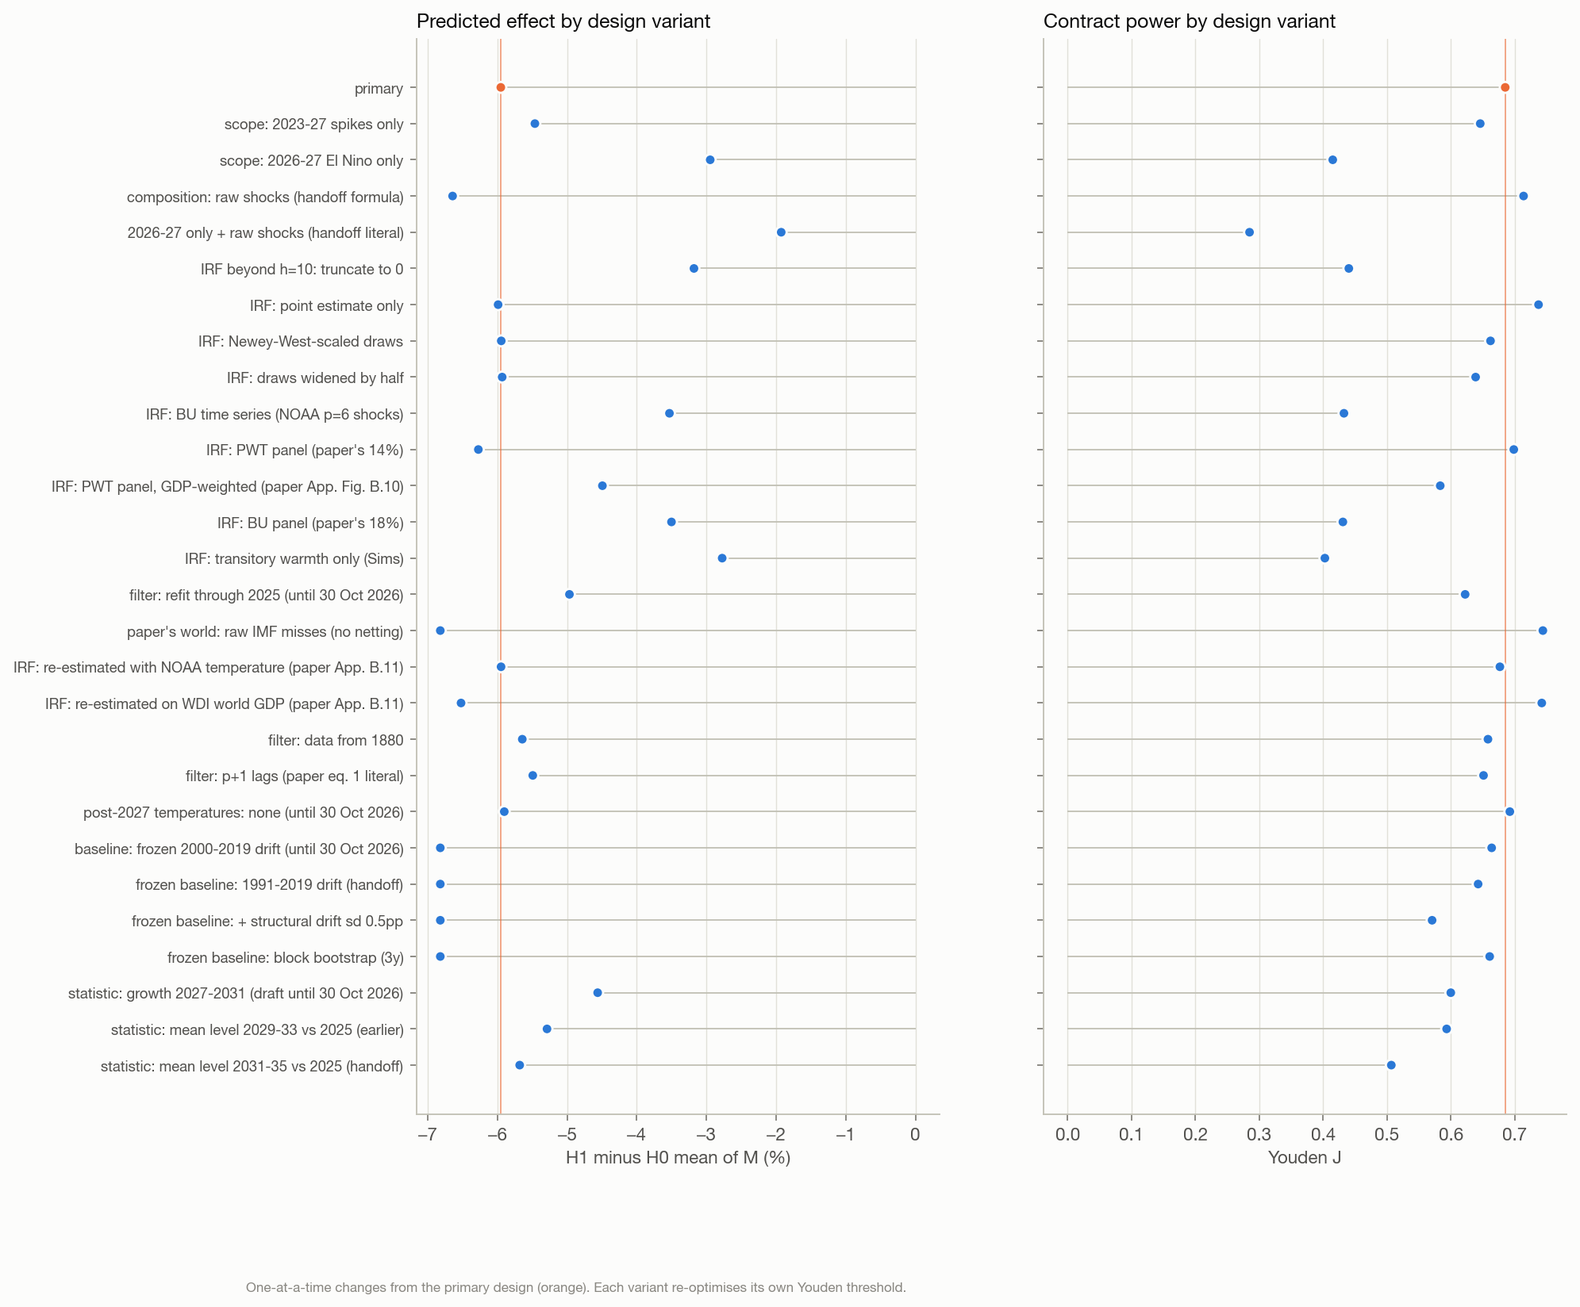
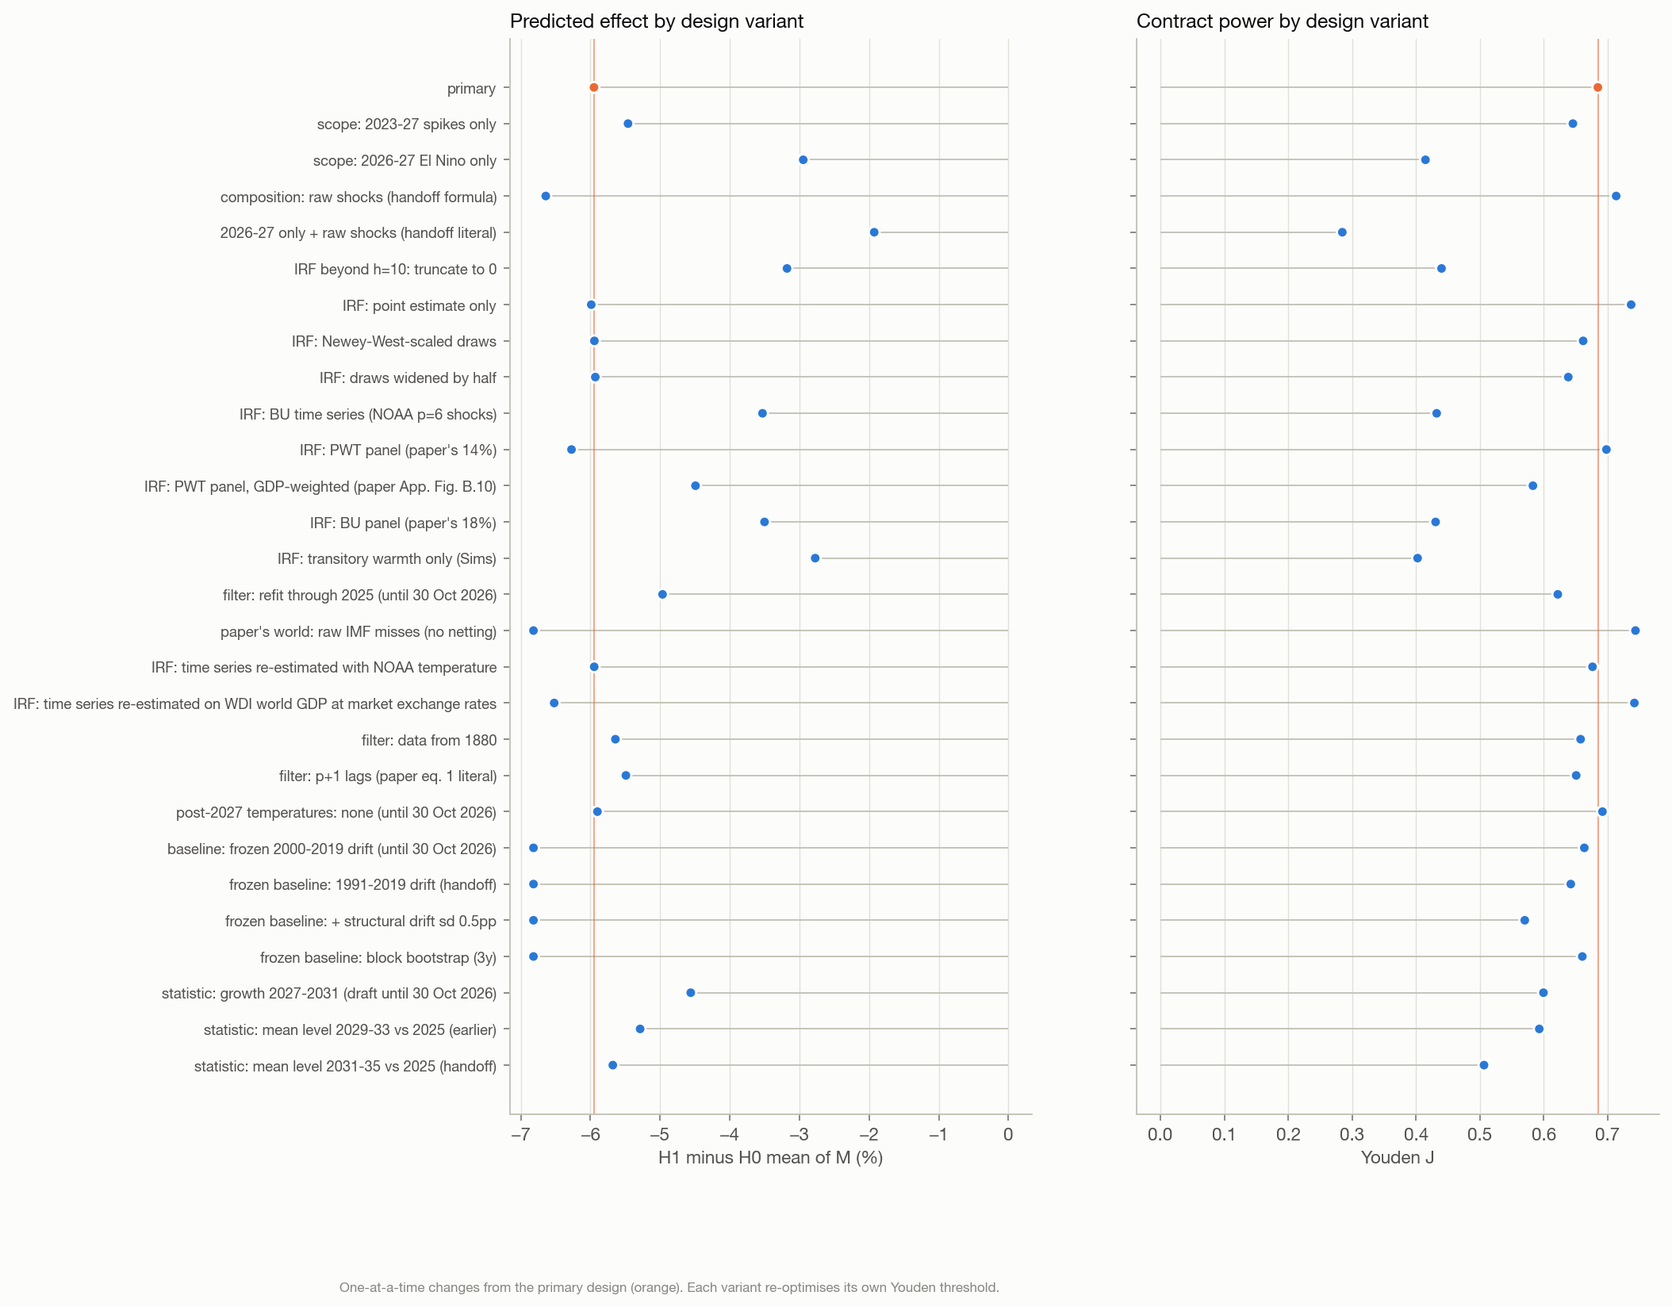
Place the paper's NOAA and World Bank checks in its country panel
App. Fig. B.11 reports the paper's NOAA, NASA and World Bank checks for its
country panel only. The world time-series re-estimates with NOAA and World
Bank data are this project's own, so the variant labels, the objection's
answer and the settlement-series reason no longer cite B.11 for them. The
re-run's numbers are unchanged.

diff --git a/bk_elnino/objections.py b/bk_elnino/objections.py
@@ -47,8 +47,8 @@ def build(r: dict) -> list[dict]:
     sens, sens_w = var["primary"]["sensitivity"], var["IRF: draws widened by half"]["sensitivity"]
     refit = v("filter: refit through 2025 (until 30 Oct 2026)")
     raw_bg = v("paper's world: raw IMF misses (no netting)")
-    noaa = v("IRF: re-estimated with NOAA temperature (paper App. B.11)")
-    wdi = v("IRF: re-estimated on WDI world GDP (paper App. B.11)")
+    noaa = v("IRF: time series re-estimated with NOAA temperature")
+    wdi = v("IRF: time series re-estimated on WDI world GDP at market exchange rates")
     frozen = v("baseline: frozen 2000-2019 drift (until 30 Oct 2026)")
     rawsh = v("composition: raw shocks (handoff formula)")
     trans = v("IRF: transitory warmth only (Sims)")
@@ -81,14 +81,16 @@ def build(r: dict) -> list[dict]:
                    f"the gap would be {_m(abs(raw_bg[0]))} points and the contract would overstate its chance of resolving "
                    f"the paper's way."},
         {"side": PAPER, "status": ADDRESSED,
-         "objection": "The contract uses NOAA temperatures and World Bank GDP where the paper uses Berkeley Earth and "
-                      "the Penn World Table.",
-         "answer": f"The paper reports similar results with NOAA, NASA and World Bank data (App. Fig. B.11), and says its "
-                   f"Berkeley Earth measure tracks NOAA almost perfectly. Re-estimating the paper's world-GDP response "
-                   f"with NOAA temperature gives {_m(th['PWT_ts_noaa'])}% at year 6 (the paper's is {_m(th['PWT_ts'])}%), "
-                   f"and with World Bank GDP {_m(th['PWT_ts_wdi'])}%. The cutoffs become {noaa[1]:.2f}% and "
-                   f"{wdi[1]:.2f}%, against {cut:.2f}%. The Penn World Table cannot settle the contract, because its "
-                   "releases lag several years."},
+         "objection": "The contract uses NOAA temperatures and World Bank GDP where the estimate it tests uses Berkeley "
+                      "Earth and the Penn World Table.",
+         "answer": f"The paper reports similar results with NOAA, NASA and World Bank data in its country panel (App. "
+                   f"Fig. B.11), and says its Berkeley Earth measure tracks NOAA almost perfectly. It does not report "
+                   f"its world time series with these data. Re-estimating that series with the authors' NOAA data "
+                   f"gives {_m(th['PWT_ts_noaa'])}% at year 6 (the paper's is {_m(th['PWT_ts'])}%), and with their "
+                   f"World Bank data, at market exchange rates, {_m(th['PWT_ts_wdi'])}%. The cutoffs become "
+                   f"{noaa[1]:.2f}% and {wdi[1]:.2f}%, against {cut:.2f}%. ForecastEx's GT contracts resolve on NOAA. "
+                   "The Penn World Table cannot settle the contract, because its releases lag several years. Its "
+                   "version 11.0, of October 2025, ends in 2023."},
         {"side": PAPER, "status": CAVEAT,
          "objection": "The growth period ends before the El Niño's full effect.",
          "answer": f"The paper's response peaks six years after a shock, after {end} for the 2027 shock. The end year is "

diff --git a/build_site_data.py b/build_site_data.py
@@ -54,8 +54,8 @@ PAGE_VARIANTS = [
     ("IRF: draws widened by half", "The paper’s uncertainty widened by half"),
     ("IRF: PWT panel (paper's 14%)", "Country panel, every country weighted equally (the paper’s 14%)"),
     ("IRF: PWT panel, GDP-weighted (paper App. Fig. B.10)", "Country panel, countries weighted by GDP (App. Fig. B.10)"),
-    ("IRF: re-estimated with NOAA temperature (paper App. B.11)", "Time series with NOAA temperature (App. Fig. B.11)"),
-    ("IRF: re-estimated on WDI world GDP (paper App. B.11)", "Time series on World Bank GDP (App. Fig. B.11)"),
+    ("IRF: time series re-estimated with NOAA temperature", "Time series with NOAA temperature"),
+    ("IRF: time series re-estimated on WDI world GDP at market exchange rates", "Time series on World Bank GDP at market exchange rates"),
     ("IRF: BU time series (NOAA p=6 shocks)", "Barro–Ursúa data from 1860, time series"),
     ("IRF: BU panel (paper's 18%)", "Barro–Ursúa country panel (the paper’s 18%)"),
     ("IRF: transitory warmth only (Sims)", "Only the transitory part of each shock (App. B.4)"),
@@ -88,10 +88,10 @@ IRF_MENU = [
     ("PWT_panel", "Country panel, every country weighted equally (Fig. IV)", "IRF: PWT panel (paper's 14%)"),
     ("PWT_panel_gdpw", "Country panel, countries weighted by GDP (App. Fig. B.10)",
      "IRF: PWT panel, GDP-weighted (paper App. Fig. B.10)"),
-    ("PWT_ts_noaa", "Time series re-estimated with NOAA temperature (App. Fig. B.11)",
-     "IRF: re-estimated with NOAA temperature (paper App. B.11)"),
-    ("PWT_ts_wdi", "Time series re-estimated on World Bank GDP (App. Fig. B.11)",
-     "IRF: re-estimated on WDI world GDP (paper App. B.11)"),
+    ("PWT_ts_noaa", "Time series re-estimated with NOAA temperature",
+     "IRF: time series re-estimated with NOAA temperature"),
+    ("PWT_ts_wdi", "Time series re-estimated on World Bank GDP at market exchange rates",
+     "IRF: time series re-estimated on WDI world GDP at market exchange rates"),
     ("BU_ts", "Barro–Ursúa data from 1860, time series", "IRF: BU time series (NOAA p=6 shocks)"),
     ("BU_panel", "Barro–Ursúa country panel", "IRF: BU panel (paper's 18%)"),
     ("PWT_ts_transitory", "Only the transitory part of each shock (App. B.4)",

diff --git a/bk_elnino/analysis.py b/bk_elnino/analysis.py
@@ -480,8 +480,8 @@ def variants(P: Design = PRIMARY) -> list[Design]:
         replace(P, name="IRF: transitory warmth only (Sims)", irf="PWT_ts_transitory"),
         replace(P, name="filter: refit through 2025 (until 30 Oct 2026)", calib_end=2025),
         replace(P, name="paper's world: raw IMF misses (no netting)", h1_background="raw"),
-        replace(P, name="IRF: re-estimated with NOAA temperature (paper App. B.11)", irf="PWT_ts_noaa"),
-        replace(P, name="IRF: re-estimated on WDI world GDP (paper App. B.11)", irf="PWT_ts_wdi"),
+        replace(P, name="IRF: time series re-estimated with NOAA temperature", irf="PWT_ts_noaa"),
+        replace(P, name="IRF: time series re-estimated on WDI world GDP at market exchange rates", irf="PWT_ts_wdi"),
         replace(P, name="filter: data from 1880", data_start=1880),
         replace(P, name="filter: p+1 lags (paper eq. 1 literal)", convention="paper_eq1"),
         replace(P, name="post-2027 temperatures: none (until 30 Oct 2026)", future_temps="none"),
@@ -521,9 +521,9 @@ def sensitivity_specs(P: Design) -> list[dict]:
             {"irf": "PWT_panel"}),
         row(est, "Country panel, weighted by GDP (App. Fig. B.10)", replace(P, irf="PWT_panel_gdpw"),
             {"irf": "PWT_panel_gdpw"}),
-        row(est, "Re-estimated with NOAA temperature (App. Fig. B.11)", replace(P, irf="PWT_ts_noaa"),
+        row(est, "Re-estimated with NOAA temperature", replace(P, irf="PWT_ts_noaa"),
             {"irf": "PWT_ts_noaa"}),
-        row(est, "Re-estimated on World Bank GDP (App. Fig. B.11)", replace(P, irf="PWT_ts_wdi"),
+        row(est, "Re-estimated on World Bank GDP at market exchange rates", replace(P, irf="PWT_ts_wdi"),
             {"irf": "PWT_ts_wdi"}),
         row(est, "Barro–Ursúa data from 1860, time series", replace(P, irf="BU_ts"), {"irf": "BU_ts"}),
         row(est, "Barro–Ursúa country panel", replace(P, irf="BU_panel"), {"irf": "BU_panel"}),

diff --git a/bk_elnino/irf.py b/bk_elnino/irf.py
@@ -104,8 +104,10 @@ def load_irfs(bk_dir: Path, nboot: int = 4000, seed: int = 123) -> dict[str, IRF
                                         "Response to a one-year +1 C temperature deviation (paper App. B.4).")
         if key == "PWT_ts":
             corr_pwt = np.corrcoef(D.T)
-    # the paper's App. Fig. B.11 data choices in the time series: NOAA temperature (h=2 p=2 shocks fitted
-    # on 1950-2022, as for Berkeley Earth) and WDI world GDP, everything else as in the PWT spec
+    # the data choices the paper checks in its country panel (App. Fig. B.11), applied here to the world time
+    # series, which the paper does not report with them: NOAA temperature (h=2 p=2 shocks fitted on 1950-2022,
+    # as for Berkeley Earth) and the authors' WDI world GDP (market exchange rates), everything else as in the
+    # PWT spec
     noaa = bu["gtmp_noaa_aw"].dropna().loc[1950:]
     alt = pwt.copy()
     alt["gtmp_noaa_aw_h2p2s"] = H.shocks(H.fit(noaa, 2, 2, end=2022), noaa)
@@ -116,7 +118,7 @@ def load_irfs(bk_dir: Path, nboot: int = 4000, seed: int = 123) -> dict[str, IRF
         g = lp.lp_irf(alt, spec)
         D = lp.recentre(lp.wild_bootstrap_irf(alt, spec, nboot=nboot, seed=seed), g.b.values)
         irfs[key] = IRF(key, g.b.values, D, g.se.values, None, shockdef,
-                        "PWT time-series LP with one data choice from the paper's App. Fig. B.11; "
+                        "PWT time-series LP with one data choice the paper checks in its panel (App. Fig. B.11); "
                         "wild-bootstrap draws re-centred on the point estimate.")
     # Panel (paper Fig. IV, the headline 14% / 18%): point + 95% band only
     rng = np.random.default_rng(seed + 1)

diff --git a/build_docs.py b/build_docs.py
@@ -586,8 +586,8 @@ def series_reason(x: R) -> str:
             f"closely, with five-year average growth {v['rms_5y_pwt_minus_ppp']:.2f} points a year apart (root mean "
             f"square over windows ending {a}–{b}). The World Bank's published growth rate, `NY.GDP.PCAP.KD.ZG`, "
             "measures growth in constant 2015 dollars at market exchange rates and sits "
-            f"{v['rms_5y_pwt_minus_usd']:.2f} points apart. The paper's own check on that constant-dollar series "
-            "(its App. Fig. B.11) gives very similar estimates.")
+            f"{v['rms_5y_pwt_minus_usd']:.2f} points apart. The paper's country panel gives very similar estimates "
+            "with World Bank data (its App. Fig. B.11).")
 
 
 def gdp_provisions(x: R, lead: str = "If") -> str:

diff --git a/CONTRACT_TERMS.md b/CONTRACT_TERMS.md
@@ -45,7 +45,7 @@ Each term is open for comment until the freeze.
 
 ### 2. Settlement event
 - The settlement event is world GDP per capita growth from 2026 to 2031, measured with World Bank WDI `NY.GDP.PCAP.PP.KD` (GDP per capita, PPP, constant 2021 international $) for country `WLD`.
-- The contract settles on the series that most closely follows the paper's GDP data among those published in time to settle it. The paper's estimate is fitted on the Penn World Table's world GDP per capita, whose releases lag several years. Of the World Bank's series, the PPP series tracks it most closely, with five-year average growth 0.20 points a year apart (root mean square over windows ending 1995–2019). The World Bank's published growth rate, `NY.GDP.PCAP.KD.ZG`, measures growth in constant 2015 dollars at market exchange rates and sits 0.37 points apart. The paper's own check on that constant-dollar series (its App. Fig. B.11) gives very similar estimates.
+- The contract settles on the series that most closely follows the paper's GDP data among those published in time to settle it. The paper's estimate is fitted on the Penn World Table's world GDP per capita, whose releases lag several years. Of the World Bank's series, the PPP series tracks it most closely, with five-year average growth 0.20 points a year apart (root mean square over windows ending 1995–2019). The World Bank's published growth rate, `NY.GDP.PCAP.KD.ZG`, measures growth in constant 2015 dollars at market exchange rates and sits 0.37 points apart. The paper's country panel gives very similar estimates with World Bank data (its App. Fig. B.11).
 - **Growth = 100 × ln(y2031 / y2026) / 5**, with both levels from the single resolution-date version, so PPP rebasings and level revisions cancel. Growth is used unrounded, and the contract resolves **Yes if growth is strictly greater than the strike.**
 - This is average log growth. At these rates it is within 0.03 points of the compound annual rate.
 - 2026 is the last full year before listing, so none of the growth being measured (2027–2031) is known when the contracts list.
@@ -165,7 +165,7 @@ Each entry gives who would raise it, the answer, and whether the design addresse
 - **The contract uses the paper's 12% estimate where its headline is 14%.** *(paper's side; addressed)* The contract is on world GDP per person, and the paper's estimate for world GDP is its time-series result (Fig. III, about 12% six years after a 1 °C shock). The 14% is the country-panel average, which weights every country equally. Weighting countries by their share of world GDP, as the paper does in App. Fig. B.10, gives −9.9% at year 6. Using the 14% moves the gap between the two worlds from 5.9 to 6.3 points and the cutoff from 1.09% to 1.08% a year (J 0.68 vs 0.70). With the GDP-weighted panel they are 4.5 points and 1.20% (J 0.58).
 - **The shock filter was fitted on the very years being tested.** *(paper's side; addressed)* Since 30 Oct 2026 the filter has been fitted on the paper's own window (dependent years 1953–2022, data from 1950), so the 2023–27 warmth is measured out of sample. Refitting through 2025 shrinks each tested shock by about 0.04–0.05 °C and the gap to 5.0 points (J 0.62).
 - **The no-effect background already contains the paper's damage.** *(paper's side; addressed)* By the paper's own estimates, 0.9 of the IMF's average 3.1-point miss over five-year windows came from temperature shocks (warming ran ahead of its trend after 1990). In the paper's world that part is taken out of the background, because the paper's damage enters through the shocks since 2015 instead. Without this, the gap would be 6.8 points and the contract would overstate its chance of resolving the paper's way.
-- **The contract uses NOAA temperatures and World Bank GDP where the paper uses Berkeley Earth and the Penn World Table.** *(paper's side; addressed)* The paper reports similar results with NOAA, NASA and World Bank data (App. Fig. B.11), and says its Berkeley Earth measure tracks NOAA almost perfectly. Re-estimating the paper's world-GDP response with NOAA temperature gives −11.6% at year 6 (the paper's is −12.1%), and with World Bank GDP −12.7%. The cutoffs become 1.10% and 1.06%, against 1.09%. The Penn World Table cannot settle the contract, because its releases lag several years.
+- **The contract uses NOAA temperatures and World Bank GDP where the estimate it tests uses Berkeley Earth and the Penn World Table.** *(paper's side; addressed)* The paper reports similar results with NOAA, NASA and World Bank data in its country panel (App. Fig. B.11), and says its Berkeley Earth measure tracks NOAA almost perfectly. It does not report its world time series with these data. Re-estimating that series with the authors' NOAA data gives −11.6% at year 6 (the paper's is −12.1%), and with their World Bank data, at market exchange rates, −12.7%. The cutoffs become 1.10% and 1.06%, against 1.09%. ForecastEx's GT contracts resolve on NOAA. The Penn World Table cannot settle the contract, because its releases lag several years. Its version 11.0, of October 2025, ends in 2023.
 - **The growth period ends before the El Niño's full effect.** *(paper's side; caveat)* The paper's response peaks six years after a shock, after 2031 for the 2027 shock. The end year is set by a fixed rule that maximises the separation between the two views. Longer periods add more background noise than predicted damage (see the end-year table).
 - **Linear scaling breaks down for shocks this large.** *(paper's side; caveat)* The 2024 shock (0.35 °C) is 31% larger than the largest in the filter's 1953–2022 sample (0.27 °C, 2016). The paper finds no sign that larger shocks have smaller effects, and positive shocks have effects at least as large as negative ones (App. Fig. B.6). Linear scaling is therefore unlikely to overstate the paper's predicted damage.
 - **El Niño warmth differs from the global temperature variation the paper studied.** *(paper's side; addressed)* The paper reports almost the same estimate after controlling for the same year's oceanic El Niño index (App. Fig. B.9) and says its results hold across sources of temperature variation. El Niño heat shows up first in the oceans, and the paper finds ocean temperature drives most of the effect (Fig. IX). The years after the El Niño are simulated with the cooling that usually follows a strong one. Measured with the paper's filter, they change the predicted gap by −0.05 points.

diff --git a/MEMO.md b/MEMO.md
@@ -203,7 +203,7 @@ These objections come from re-reading the paper and its online appendix against 
 - **The contract uses the paper's 12% estimate where its headline is 14%.** *(paper's side; addressed)* The contract is on world GDP per person, and the paper's estimate for world GDP is its time-series result (Fig. III, about 12% six years after a 1 °C shock). The 14% is the country-panel average, which weights every country equally. Weighting countries by their share of world GDP, as the paper does in App. Fig. B.10, gives −9.9% at year 6. Using the 14% moves the gap between the two worlds from 5.9 to 6.3 points and the cutoff from 1.09% to 1.08% a year (J 0.68 vs 0.70). With the GDP-weighted panel they are 4.5 points and 1.20% (J 0.58).
 - **The shock filter was fitted on the very years being tested.** *(paper's side; addressed)* Since 30 Oct 2026 the filter has been fitted on the paper's own window (dependent years 1953–2022, data from 1950), so the 2023–27 warmth is measured out of sample. Refitting through 2025 shrinks each tested shock by about 0.04–0.05 °C and the gap to 5.0 points (J 0.62).
 - **The no-effect background already contains the paper's damage.** *(paper's side; addressed)* By the paper's own estimates, 0.9 of the IMF's average 3.1-point miss over five-year windows came from temperature shocks (warming ran ahead of its trend after 1990). In the paper's world that part is taken out of the background, because the paper's damage enters through the shocks since 2015 instead. Without this, the gap would be 6.8 points and the contract would overstate its chance of resolving the paper's way.
-- **The contract uses NOAA temperatures and World Bank GDP where the paper uses Berkeley Earth and the Penn World Table.** *(paper's side; addressed)* The paper reports similar results with NOAA, NASA and World Bank data (App. Fig. B.11), and says its Berkeley Earth measure tracks NOAA almost perfectly. Re-estimating the paper's world-GDP response with NOAA temperature gives −11.6% at year 6 (the paper's is −12.1%), and with World Bank GDP −12.7%. The cutoffs become 1.10% and 1.06%, against 1.09%. The Penn World Table cannot settle the contract, because its releases lag several years.
+- **The contract uses NOAA temperatures and World Bank GDP where the estimate it tests uses Berkeley Earth and the Penn World Table.** *(paper's side; addressed)* The paper reports similar results with NOAA, NASA and World Bank data in its country panel (App. Fig. B.11), and says its Berkeley Earth measure tracks NOAA almost perfectly. It does not report its world time series with these data. Re-estimating that series with the authors' NOAA data gives −11.6% at year 6 (the paper's is −12.1%), and with their World Bank data, at market exchange rates, −12.7%. The cutoffs become 1.10% and 1.06%, against 1.09%. ForecastEx's GT contracts resolve on NOAA. The Penn World Table cannot settle the contract, because its releases lag several years. Its version 11.0, of October 2025, ends in 2023.
 - **The growth period ends before the El Niño's full effect.** *(paper's side; caveat)* The paper's response peaks six years after a shock, after 2031 for the 2027 shock. The end year is set by a fixed rule that maximises the separation between the two views. Longer periods add more background noise than predicted damage (see the end-year table).
 - **Linear scaling breaks down for shocks this large.** *(paper's side; caveat)* The 2024 shock (0.35 °C) is 31% larger than the largest in the filter's 1953–2022 sample (0.27 °C, 2016). The paper finds no sign that larger shocks have smaller effects, and positive shocks have effects at least as large as negative ones (App. Fig. B.6). Linear scaling is therefore unlikely to overstate the paper's predicted damage.
 - **El Niño warmth differs from the global temperature variation the paper studied.** *(paper's side; addressed)* The paper reports almost the same estimate after controlling for the same year's oceanic El Niño index (App. Fig. B.9) and says its results hold across sources of temperature variation. El Niño heat shows up first in the oceans, and the paper finds ocean temperature drives most of the effect (Fig. IX). The years after the El Niño are simulated with the cooling that usually follows a strong one. Measured with the paper's filter, they change the predicted gap by −0.05 points.
